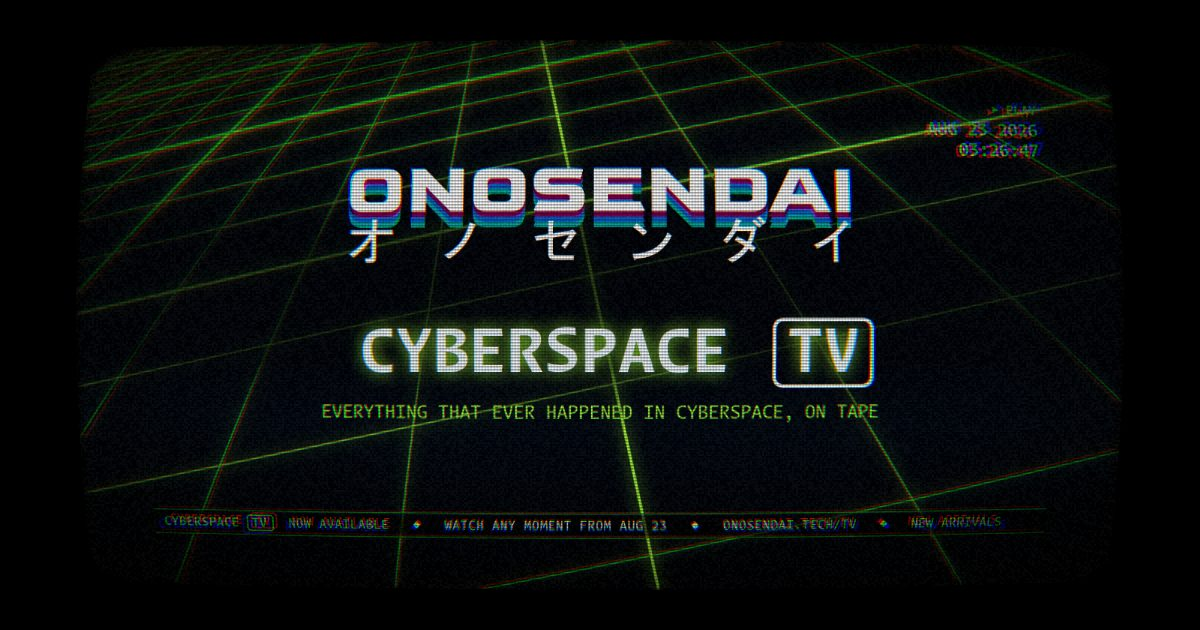
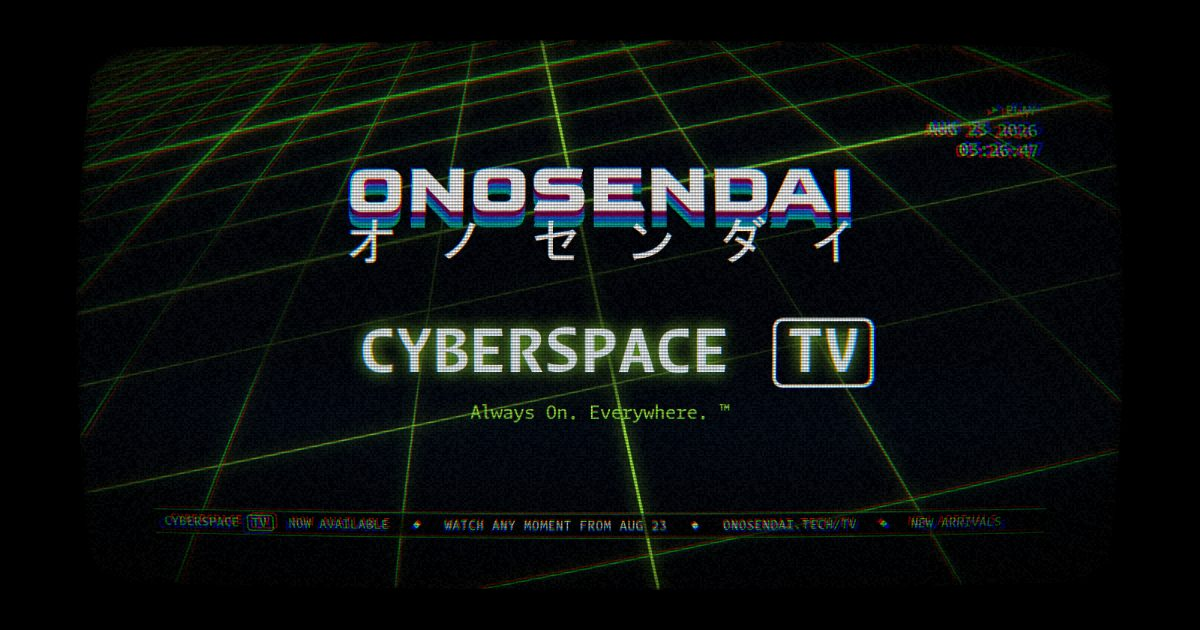
TV card: "Always On. Everywhere. ™" (#385)
arkinox, 2026-10-19: "change the subtitle on the /tv opengraph card to
"Always On. Everywhere. ™"". The card's line under CYBERSPACE TV says so
(tools/og-tv-card.html, public/og-tv.jpg re-rendered); the image's address
is versioned (?v=2), since previews are cached by it.

Claude-Session: https://claude.ai/code/session_01DfomSfTsFyuBjgqFoSTfxc

Changed region(s): [[0.2467, 0.6333, 0.74, 0.6635]]

diff --git a/src/lib/routeCard.ts b/src/lib/routeCard.ts
@@ -27,7 +27,9 @@ export const TV_CARD: RouteCard = {
   description: 'Everything that ever happened in cyberspace, played back as a broadcast: every move, every hidden bag, every new object, from a random moment since v2 began.',
   // A JPEG: the grain makes a PNG of 800 KB, more than some chat apps
   // fetch for a preview (review of #376).
-  image: 'https://onosendai.tech/og-tv.jpg',
+  // Versioned: previews are cached by the image's address, so a new card
+  // needs a new one (2: "Always On. Everywhere. ™", 2026-10-19).
+  image: 'https://onosendai.tech/og-tv.jpg?v=2',
   imageType: 'image/jpeg',
   imageAlt: 'CYBERSPACE TV and the ONOSENDAI wordmark on a curved CRT screen over a lime grid falling away at a steep angle.',
 }

diff --git a/src/lib/__tests__/routeCard.test.ts b/src/lib/__tests__/routeCard.test.ts
@@ -11,7 +11,7 @@ const index = readFileSync(new URL('../../../index.html', import.meta.url), 'utf
 describe('withCard', () => {
   it('puts the TV card in the page and leaves everything else as it was', () => {
     const tv = withCard(index, TV_CARD)
-    expect(tv).toContain('<meta property="og:image" content="https://onosendai.tech/og-tv.jpg"')
+    expect(tv).toContain('<meta property="og:image" content="https://onosendai.tech/og-tv.jpg?v=2"')
     expect(tv).toContain('<meta property="og:url" content="https://onosendai.tech/tv"')
     expect(tv).toContain('<title>CYBERSPACE TV · ONOSENDAI</title>')
     expect(tv).not.toContain('https://onosendai.tech/og.png')

diff --git a/tools/og-tv-card.html b/tools/og-tv-card.html
@@ -147,7 +147,8 @@ function flat(logo) {
   g.stroke()
   g.font = `400 20px ${FONT}`
   g.fillStyle = LIME
-  g.fillText('EVERYTHING THAT EVER HAPPENED IN CYBERSPACE, ON TAPE', W / 2, H * 0.6 + 52)
+  // arkinox, 2026-10-19: "Always On. Everywhere. ™".
+  g.fillText('Always On. Everywhere. \u2122', W / 2, H * 0.6 + 52)
 
   // The furniture: the tape's clock, top right; a marquee along the bottom.
   g.textAlign = 'right'
